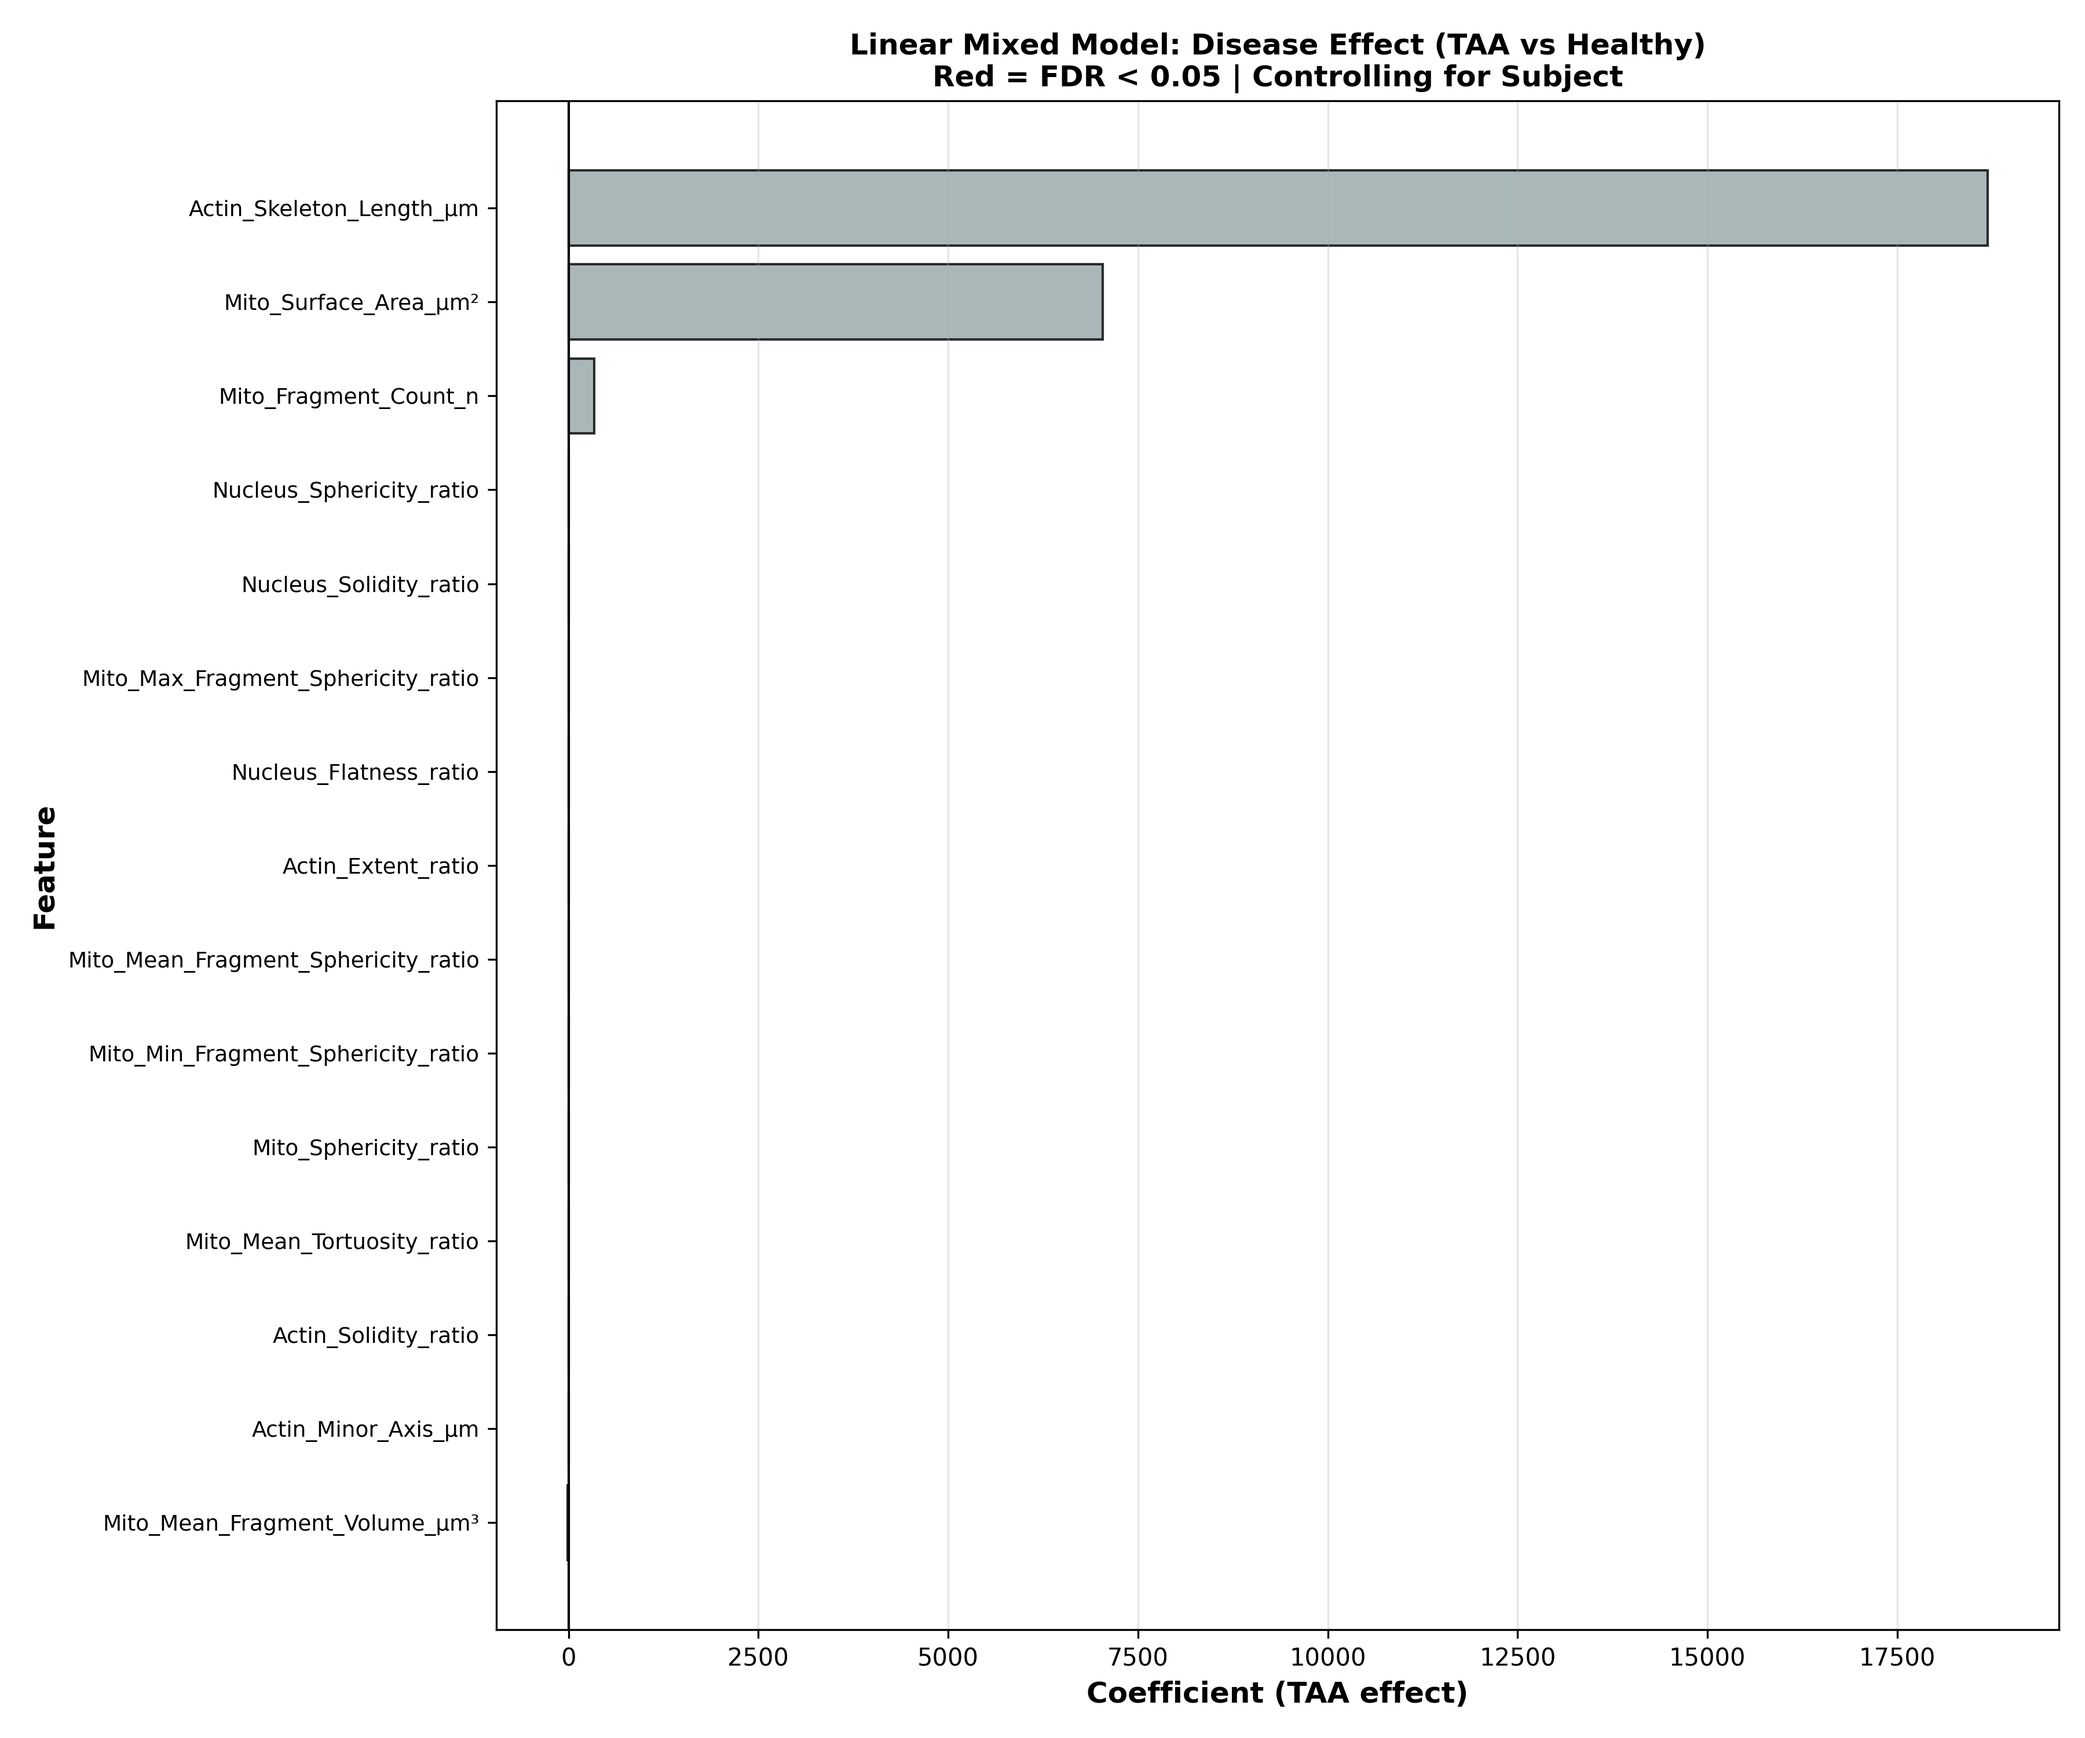
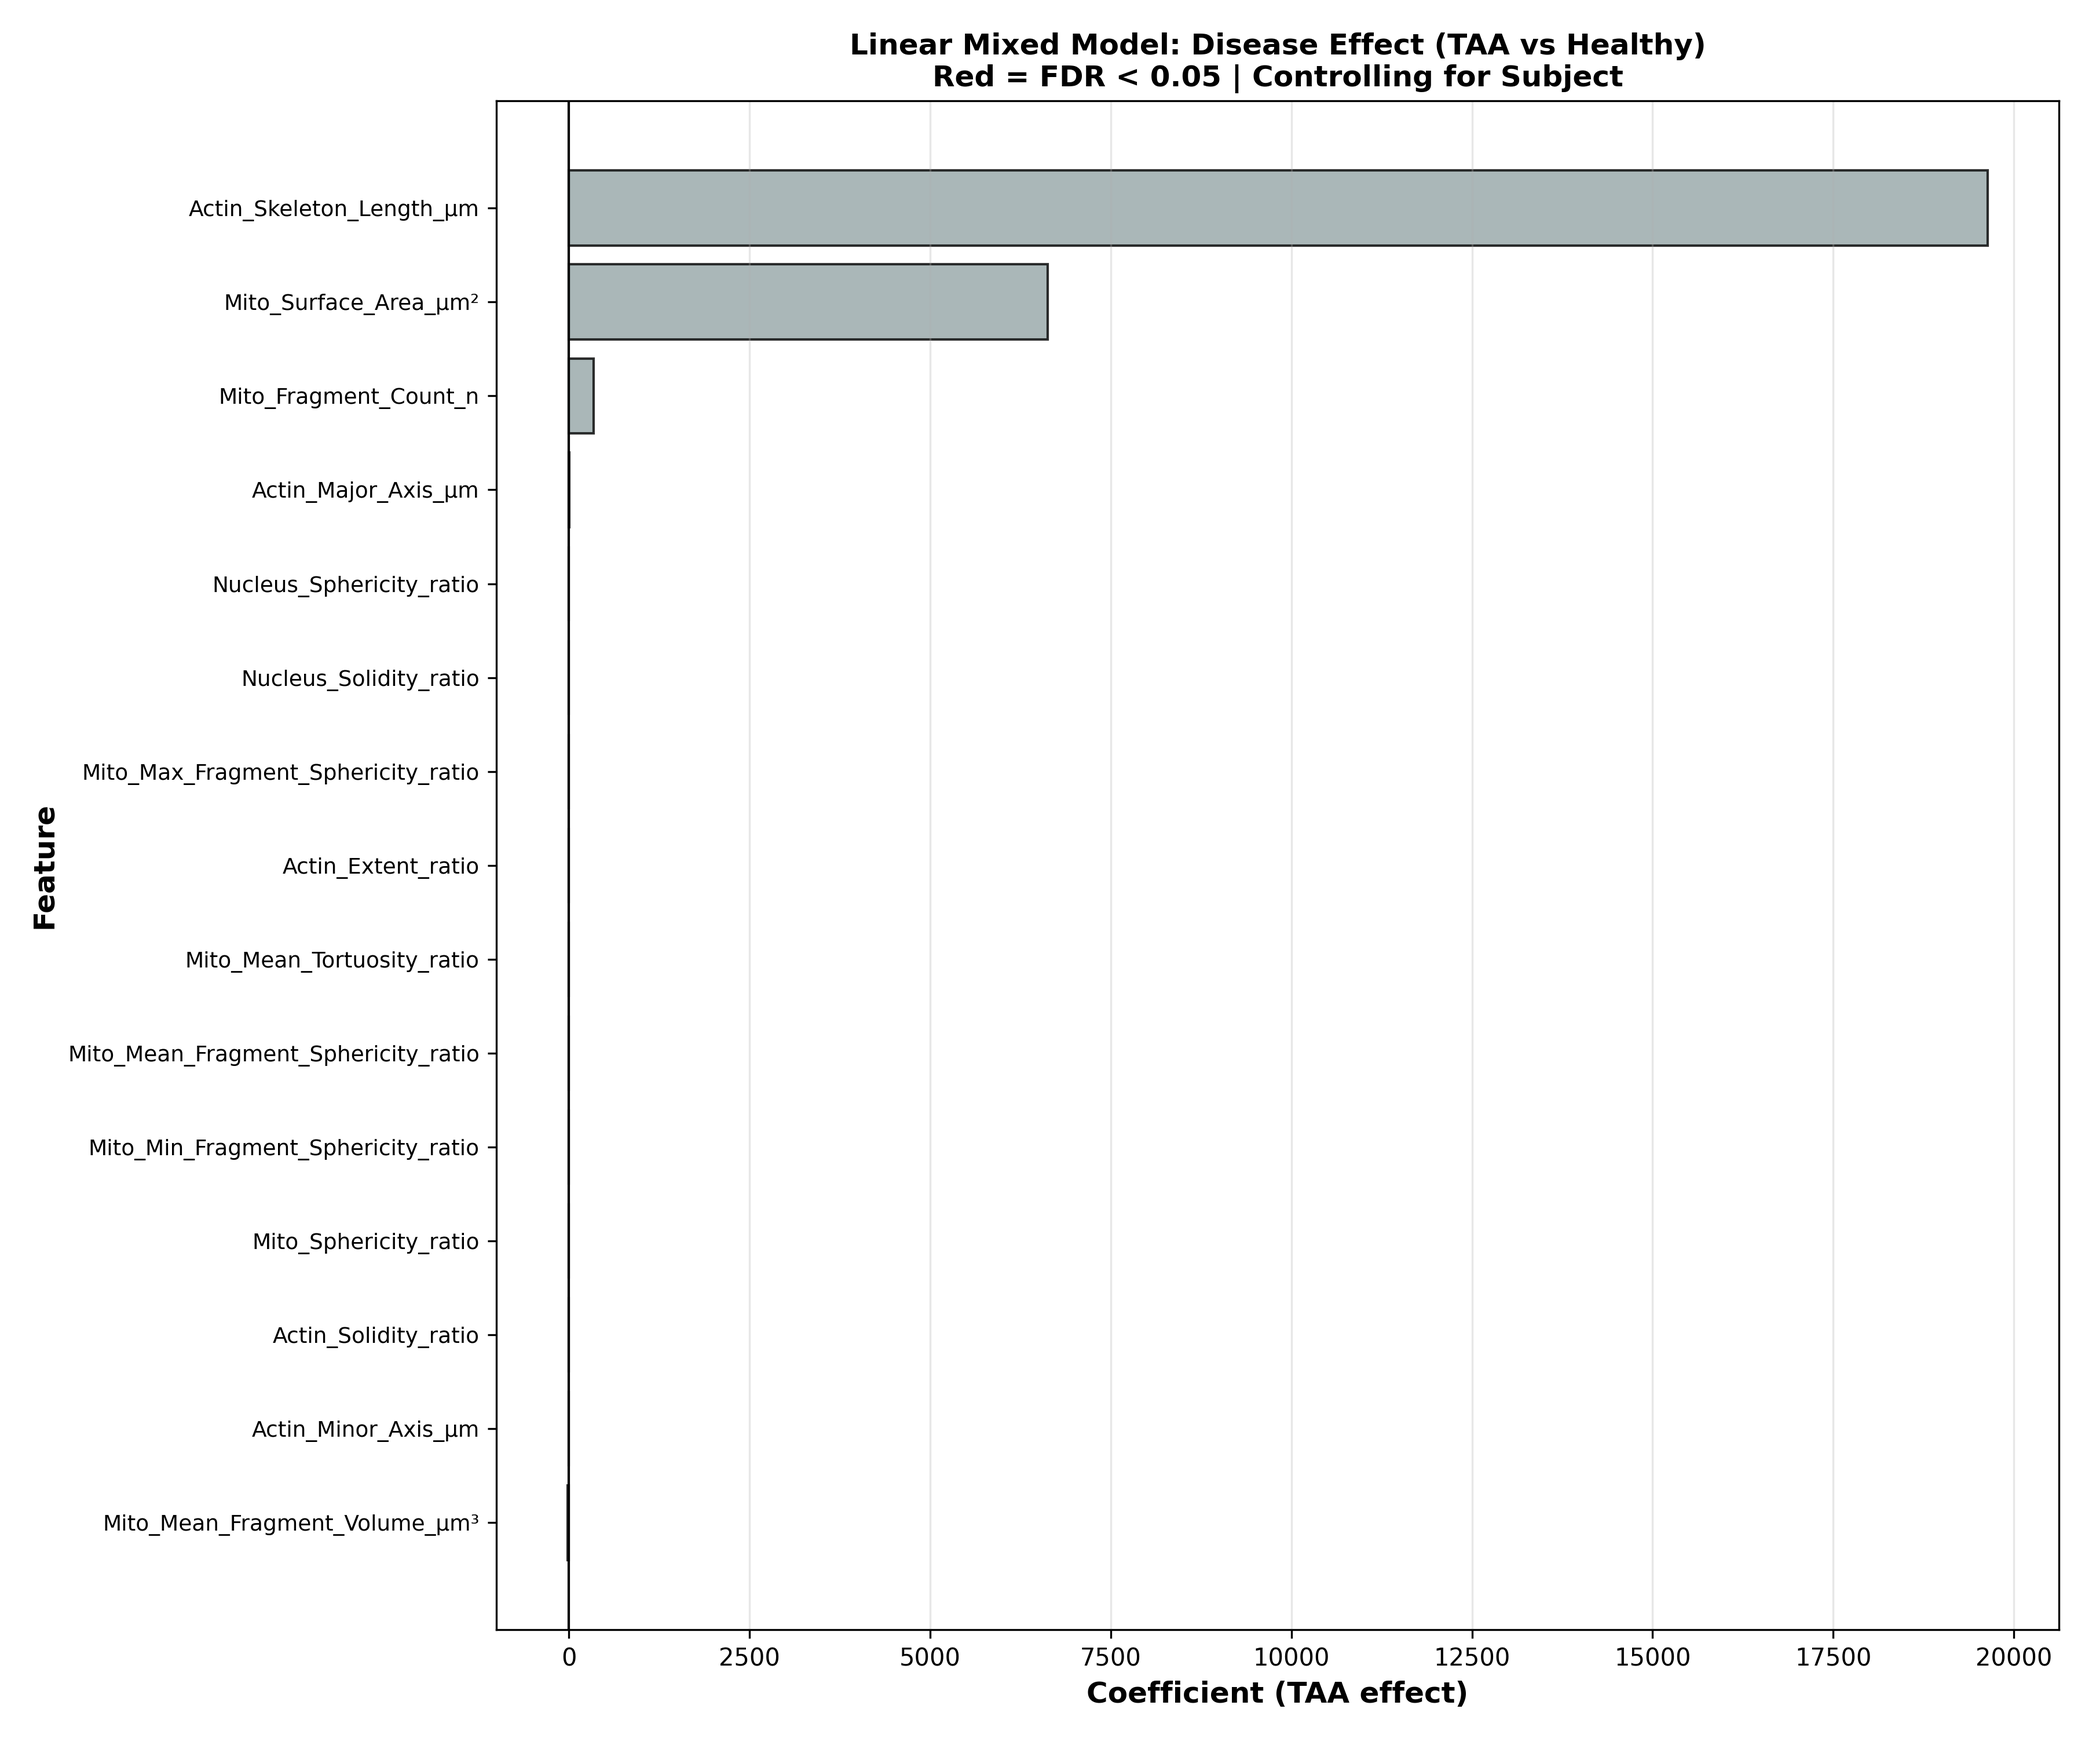
CRITICAL FIX: Correct subject ID extraction for LMM
Fixed extract_subject_id() to use full normalized ID (e.g., '01ASC-180')
instead of just numeric part (180). This prevents conflating different
patients with similar numbers.

Changes:
- Normalize case (03Asc -> 03ASC) for matching
- Remove leading zeros (0180 -> 180) for matching
- Keep prefix type (ASC, RT, C) to distinguish patients
- Enable REML=True for better small-sample variance estimation

Results with proper subject extraction (N=18 subjects):
- Still 0 significant features after FDR correction
- ICC = 0.35 (35% variance between subjects)
- Top candidate: Actin_Skeleton_Length (p=0.002, FDR=0.064)

diff --git a/src/analysis/src/analysis/LinearMixedModel.py b/src/analysis/src/analysis/LinearMixedModel.py
@@ -44,42 +44,55 @@ ALPHA = 0.05
 
 os.makedirs(OUTPUT_DIR, exist_ok=True)
 
-def extract_numeric_id(text):
-    """Robustly extracts Subject ID from filename."""
+def extract_subject_id(text):
+    """
+    Extract complete subject identifier with normalized format.
+    
+    CRITICAL: Normalizes case and removes leading zeros to ensure
+    matching between metadata and features file.
+    
+    Examples:
+        '01ASC-0180' -> '01ASC-180'
+        '03Asc24' -> '03ASC-24'
+        '01C-0096' -> '01C-96'
+        '03Rt-45' -> '03RT-45'
+    """
     if pd.isna(text):
         return None
     text = str(text).strip()
-    first_token = text.split(' ')[0]
-    token = first_token.strip('-')
-    parts = token.split('-')
-    if len(parts) > 1:
-        last_part = parts[-1]
-        if last_part.isdigit():
-            return int(last_part)
-        sub_digits = re.findall(r'\d+', last_part)
-        if sub_digits:
-            return int(sub_digits[0])
-    digits = re.findall(r'\d+', token)
-    if digits:
-        return int(digits[-1])
+    first_part = text.split(' ')[0]
+    
+    # Match patterns like '01ASC-0180' or '01C-96' or '03Asc24'
+    # Pattern: prefix (letters with optional leading digits) + optional hyphen + number
+    match = re.match(r'^(\d{0,2}[A-Za-z]+)-?0*(\d+)', first_part)
+    if match:
+        prefix = match.group(1).upper()  # Normalize case (ASC, RT, C)
+        number = match.group(2)  # Number without leading zeros
+        return f"{prefix}-{number}"
+    
     return None
 
 def load_metadata(filepath):
-    """Load metadata to classify Healthy vs TAA."""
+    """Load metadata to classify Healthy vs TAA using normalized Subject IDs."""
     print(f"Loading metadata from {filepath}...")
     df = pd.read_excel(filepath, header=None, skiprows=18)
+    
+    # Use sets to store unique subject IDs
     healthy_ids = set()
     taa_ids = set()
+    
     for x in df[0].dropna():
-        nid = extract_numeric_id(x)
-        if nid is not None:
-            healthy_ids.add(nid)
+        sid = extract_subject_id(x)
+        if sid:
+            healthy_ids.add(sid)
+            
     for x in df[1].dropna():
-        nid = extract_numeric_id(x)
-        if nid is not None:
-            taa_ids.add(nid)
-    print(f"  Healthy subjects: {sorted(list(healthy_ids))}")
-    print(f"  TAA subjects: {sorted(list(taa_ids))}")
+        sid = extract_subject_id(x)
+        if sid:
+            taa_ids.add(sid)
+            
+    print(f"  Healthy subjects ({len(healthy_ids)}): {sorted(list(healthy_ids))}")
+    print(f"  TAA subjects ({len(taa_ids)}): {sorted(list(taa_ids))}")
     return healthy_ids, taa_ids
 
 def extract_collagen_status(filename):
@@ -114,7 +127,8 @@ def run_lmm(df, feature, formula="Feature ~ Disease * Collagen"):
         model = mixedlm("Feature ~ Disease * Collagen", 
                        model_df, 
                        groups=model_df["Subject"])
-        result = model.fit(method='powell', maxiter=100)
+        # Use REML=True for unbiased variance estimation (better for small N)
+        result = model.fit(reml=True, method='powell', maxiter=200)
         
         # Extract results
         params = result.params
@@ -149,7 +163,7 @@ def main():
     healthy_ids, taa_ids = load_metadata(METADATA_FILE)
     df = pd.read_csv(FEATURES_FILE)
     
-    df['Subject'] = df['CellName'].apply(extract_numeric_id)
+    df['Subject'] = df['CellName'].apply(extract_subject_id)
     df['Collagen'] = df['CellName'].apply(extract_collagen_status)
     
     def get_disease_label(nid):
